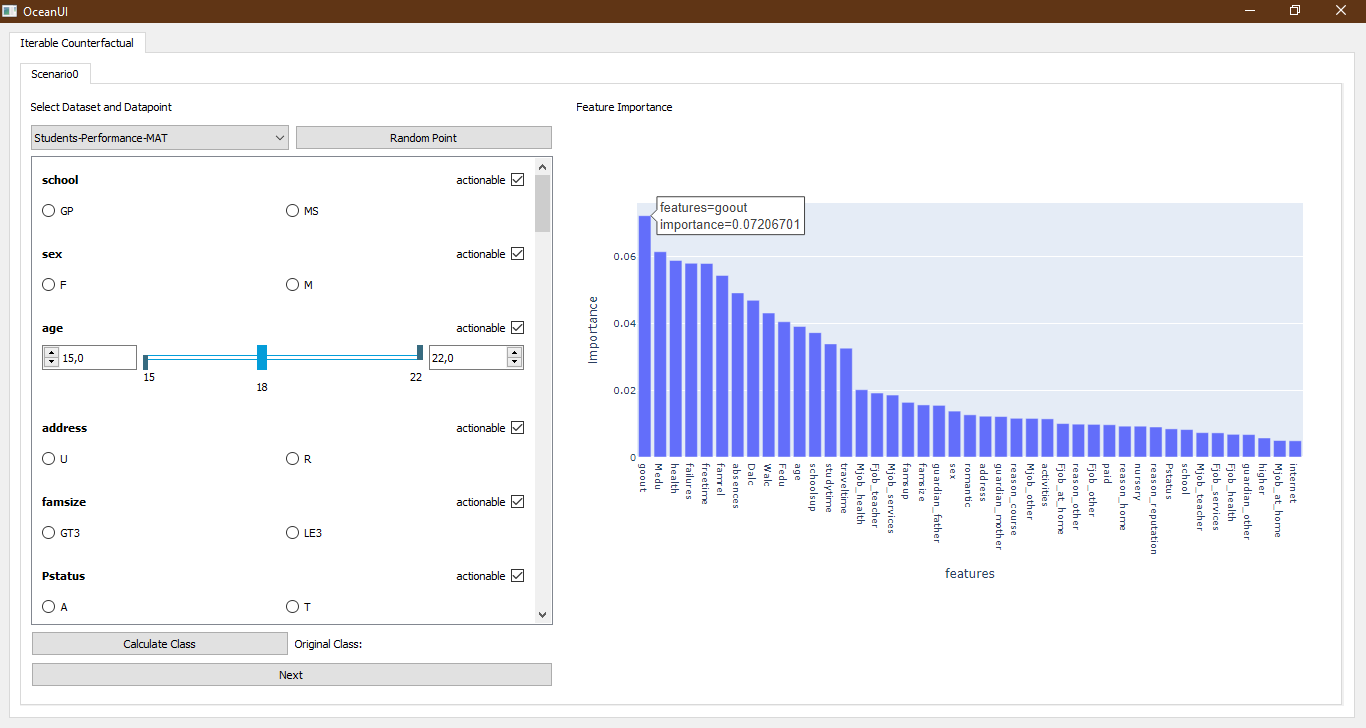
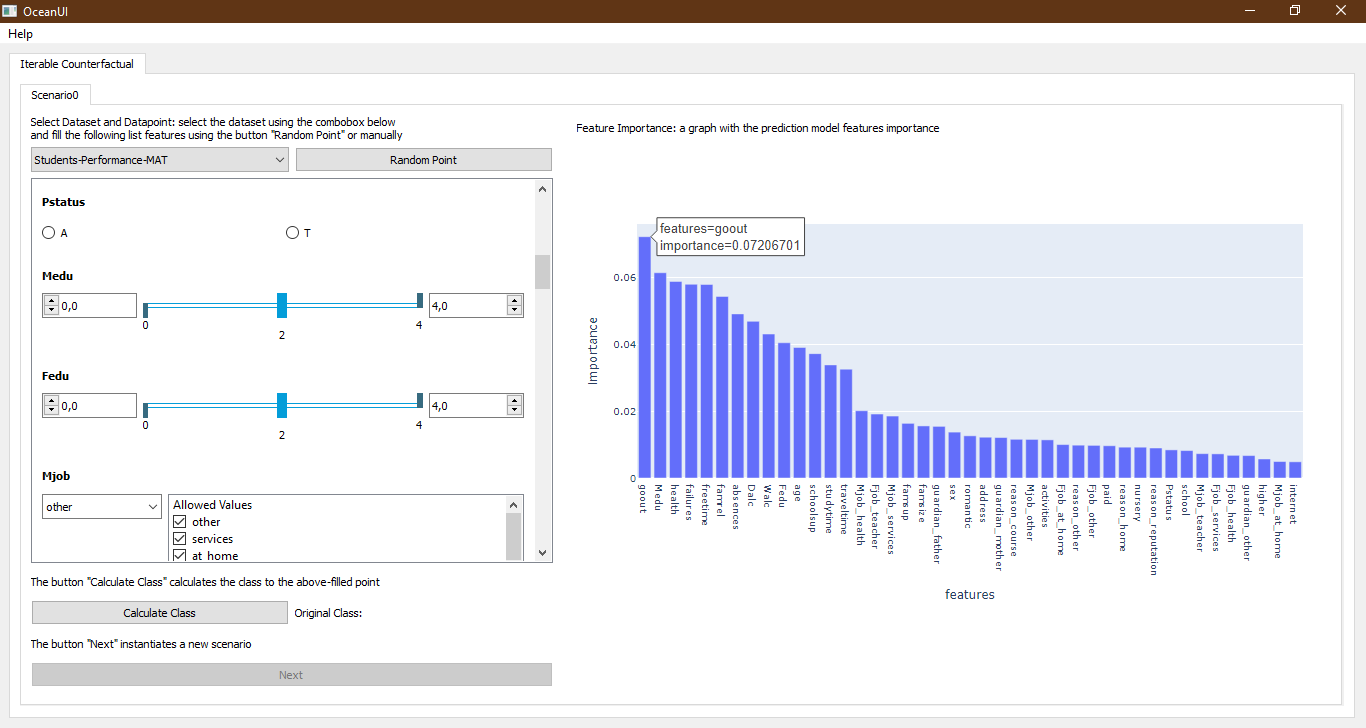
updating tutorial images

diff --git a/ui/uiIterable/tutorial/index.html b/ui/uiIterable/tutorial/index.html
@@ -6,8 +6,6 @@
 
 <h3>How to use</h3>
 
-<h1>TROCAR AS IMAGENS</h1>
-
 <p>OceanUI is a system that uses the <a href="https://github.com/vidalt/OCEAN" target="_blank">OCEAN</a> to generate counterfactuals explanations, but allowing a "walkthrough" in this process. The idea of this system is to use graphics to study and understand possible counterfactuals and, with that, build a personalized counterfactual.</p>
 
 <p>At first, we have the interface below. In it, we can select a dataset to work on using the combobox.</p>

diff --git a/ui/uiIterable/CounterfactualInterface/ComboboxList/ComboboxListView.py b/ui/uiIterable/CounterfactualInterface/ComboboxList/ComboboxListView.py
@@ -17,7 +17,7 @@ class ComboboxListView(QWidget, Ui_ComboboxList):
 
         self.comboBoxValues.setEditable(True)
 
-        self.comboBoxValues.currentTextChanged.connect(lambda: self.__updateAllowedNotActionable())
+        # self.comboBoxValues.currentTextChanged.connect(lambda: self.__updateAllowedNotActionable())
         self.checkBoxActionability.stateChanged.connect(lambda: self.__actionabilityOptionHandler())
         self.pushButtonResetOptions.clicked.connect(lambda: self.__resetOptionsHandler())
         self.pushButtonResetOptions.clicked.connect(lambda: self.resetOptions.emit())
@@ -53,7 +53,7 @@ class ComboboxListView(QWidget, Ui_ComboboxList):
             self.listWidgetAllowedValues.setEnabled(True)
             self.pushButtonCheckAll.setEnabled(True)
             self.pushButtonUncheckAll.setEnabled(True)
-            self.__checkAllHandler()
+            # self.__checkAllHandler()
         else:
             # self.checkBoxActionability.setText('not actionable')
             self.listWidgetAllowedValues.setEnabled(False)
